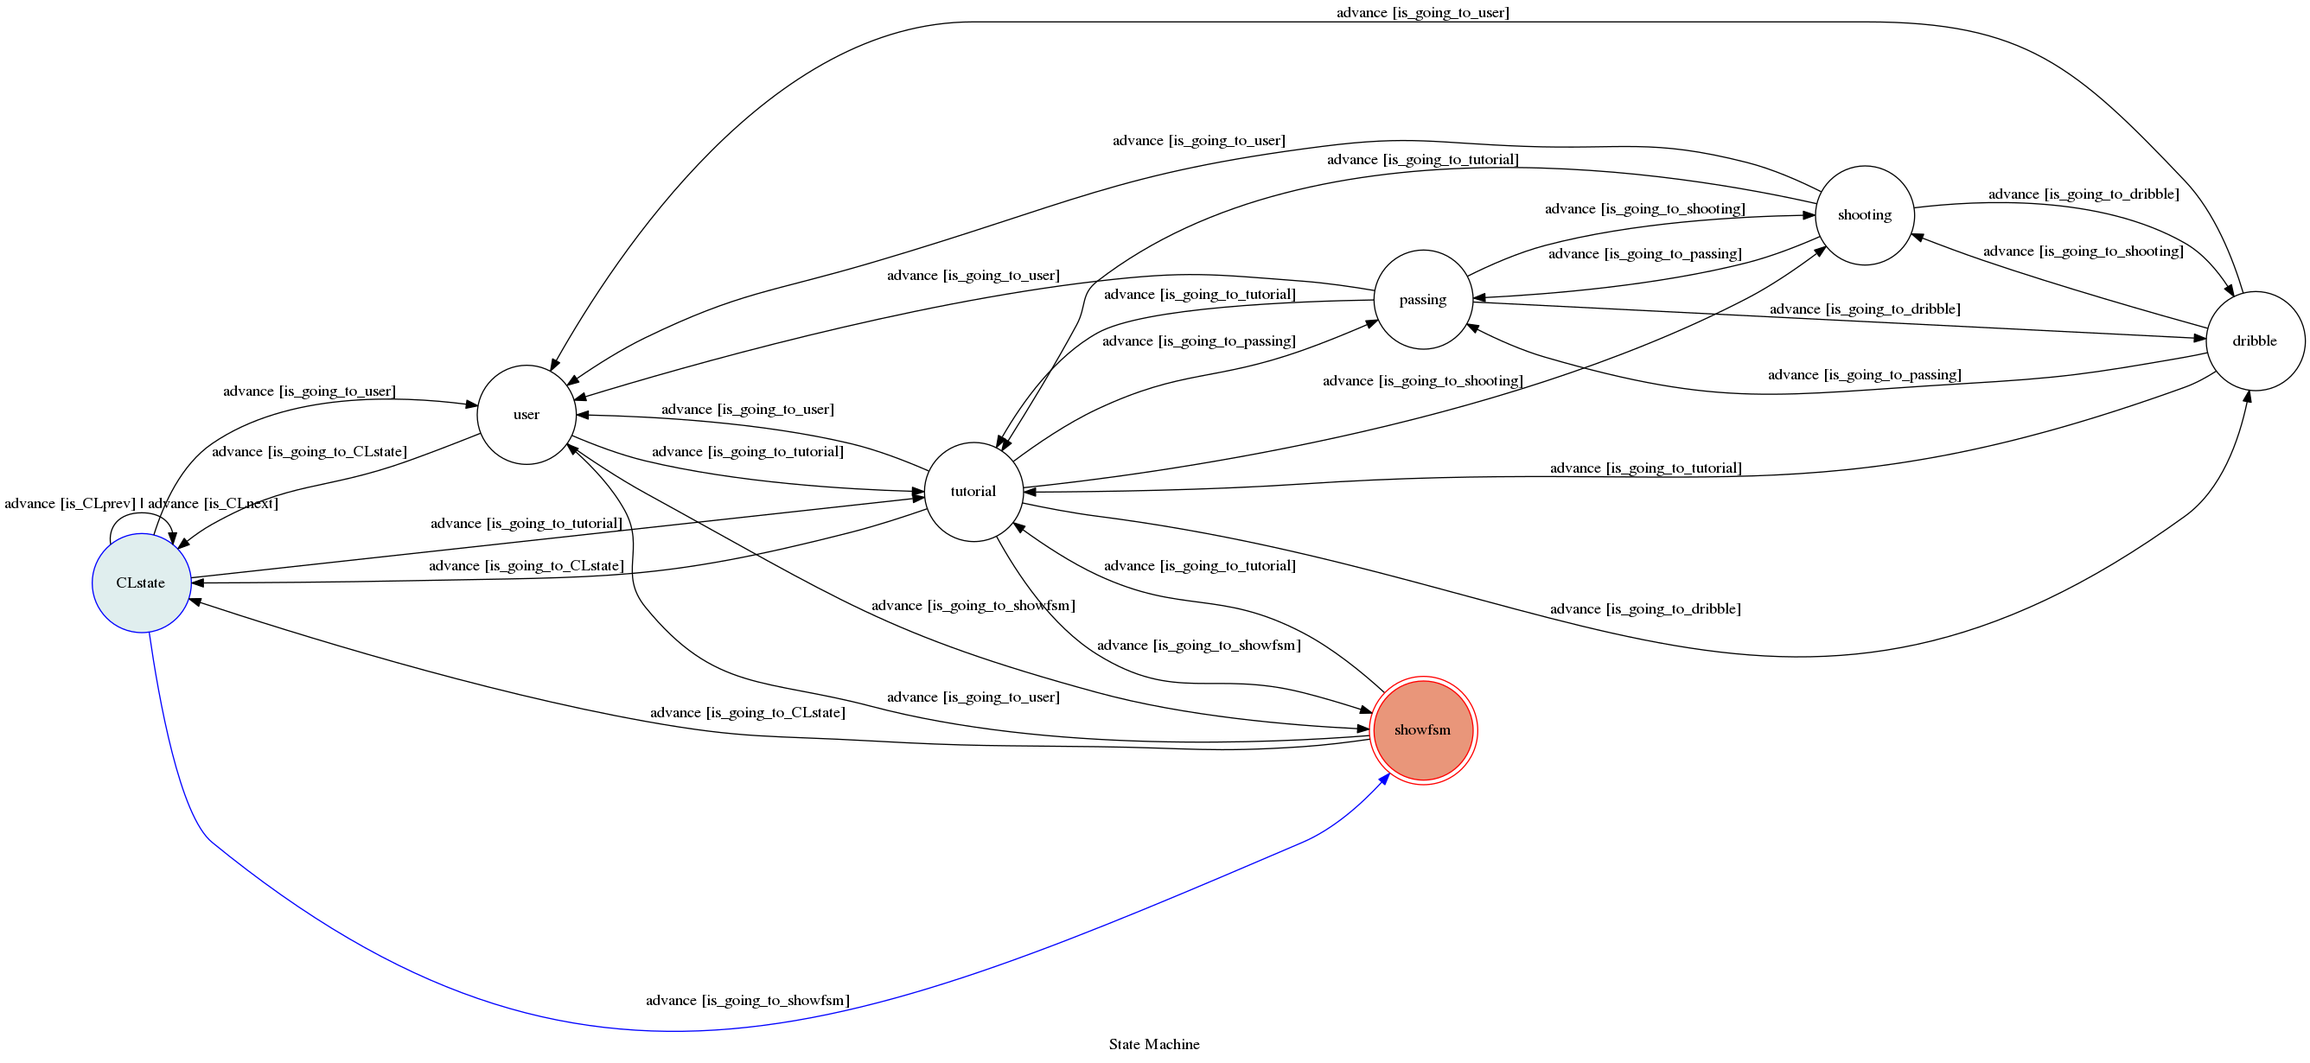
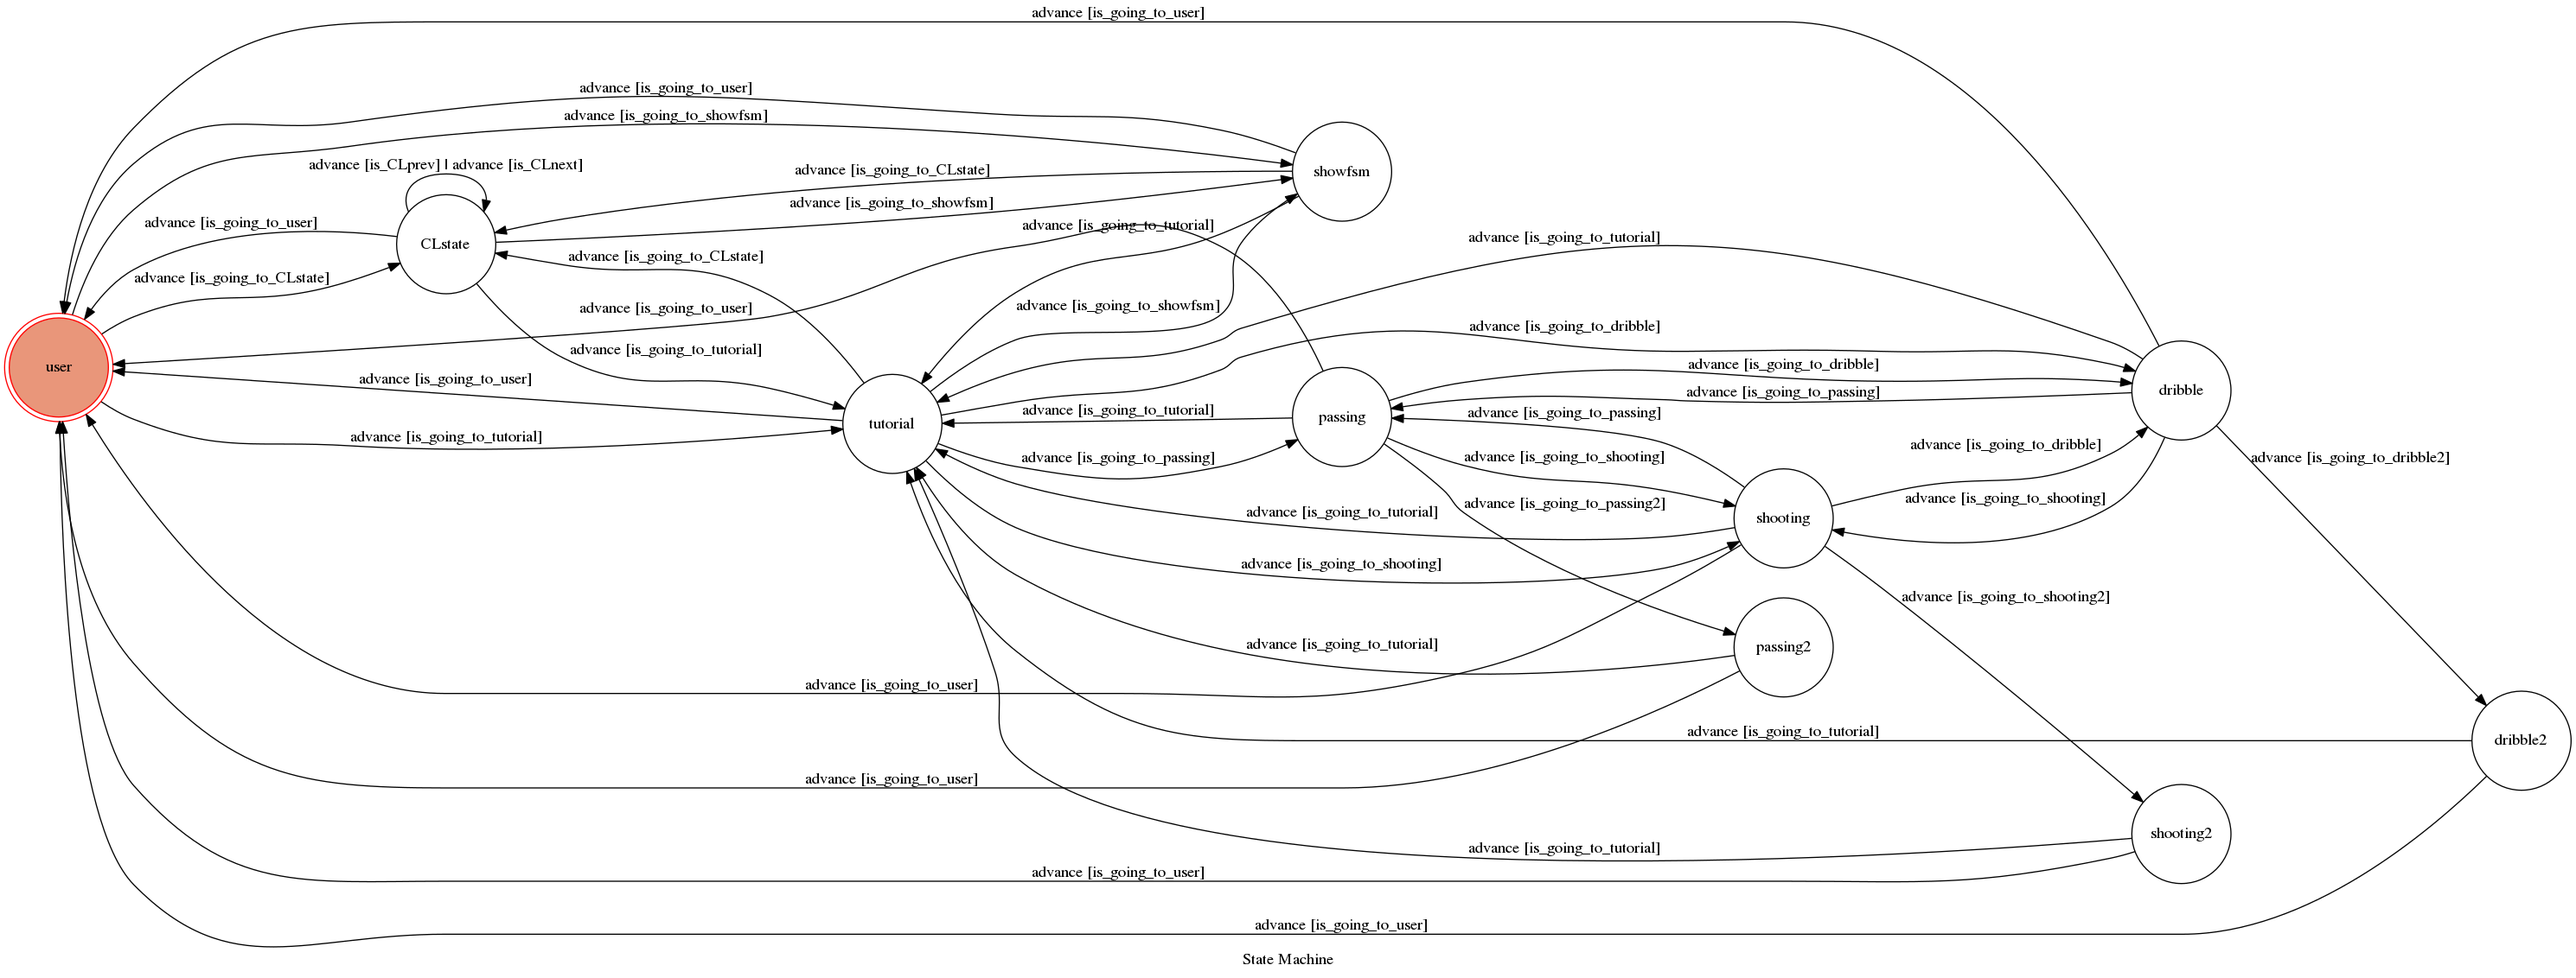
add passing2, shooting2, dribble2 state

diff --git a/fsm.py b/fsm.py
@@ -27,10 +27,6 @@ class TocMachine(GraphMachine):
         else:
             return False
 
-    #def is_going_to_CLprev(self, event):
-    #    text = event.message.text
-    #    return text.lower() == "go to CLprev"
-
     def on_enter_CLstate(self, event):
         print("I'm entering CLstate")
         driver = webdriver.Chrome(executable_path=os.environ.get("CHROMEDRIVER_PATH"), chrome_options=self.chrome_options)
@@ -39,15 +35,7 @@ class TocMachine(GraphMachine):
             send_text_message(reply_token, "Do not have next competition")
             return
         driver.get(self.url)
-        #
-        more_buttons = driver.find_elements_by_class_name("moreLink")
-        for x in range(len(more_buttons)):
-            if more_buttons[x].is_displayed():
-                driver.execute_script("arguments[0].click();", more_buttons[x])
-                time.sleep(1)
-        r = driver.page_source
-        #
-        #r = driver.execute_script("return document.documentElement.outerHTML")
+        r = driver.execute_script("return document.documentElement.outerHTML")
         driver.quit()
 
         # for debug
@@ -55,7 +43,6 @@ class TocMachine(GraphMachine):
         f.write(str(r))
         f.close()
 
-        # goal.com
         soup = BeautifulSoup(r, "html.parser")
         time = soup.find("div", {"class": "nav-switch__label"}).text
         s = time + "\n"
@@ -85,7 +72,6 @@ class TocMachine(GraphMachine):
         print(s)
         reply_token = event.reply_token
         send_text_message(reply_token, s)
-        #self.go_back()
 
     def is_CLprev(self, event):
         text = event.message.text
@@ -114,7 +100,7 @@ class TocMachine(GraphMachine):
 
     def on_enter_showfsm(self, event):
         reply_token = event.reply_token
-        send_image_url(reply_token, "https://407034cf.ngrok.io/show-fsm")
+        send_image_url(reply_token, "https://raw.githubusercontent.com/axwl03/toc-soccer/master/fsm.png")
 
     def is_going_to_showfsm(self, event):
         text = event.message.text
@@ -130,7 +116,7 @@ class TocMachine(GraphMachine):
 
     def on_enter_dribble(self, event):
         reply_token = event.reply_token
-        send_text_message(reply_token, "https://www.youtube.com/watch?v=LRW3UpQrgPQ\nhttps://www.youtube.com/watch?v=D1FINJT_QIQ\nhttps://www.youtube.com/watch?v=0Zj3hhiYF0c")
+        send_text_message(reply_token, "帶球影片:\nhttps://www.youtube.com/watch?v=LRW3UpQrgPQ\nhttps://www.youtube.com/watch?v=D1FINJT_QIQ\nhttps://www.youtube.com/watch?v=0Zj3hhiYF0c")
 
     def is_going_to_dribble(self, event):
         text = event.message.text
@@ -138,7 +124,7 @@ class TocMachine(GraphMachine):
 
     def on_enter_shooting(self, event):
         reply_token = event.reply_token
-        send_text_message(reply_token, "https://www.youtube.com/watch?v=2wHXqTqVPFo\nhttps://www.youtube.com/watch?v=fb72F-NMkhM\nhttps://www.youtube.com/watch?v=XSOx4wMnNbA")
+        send_text_message(reply_token, "射門影片:\nhttps://www.youtube.com/watch?v=2wHXqTqVPFo\nhttps://www.youtube.com/watch?v=fb72F-NMkhM\nhttps://www.youtube.com/watch?v=XSOx4wMnNbA")
 
     def is_going_to_shooting(self, event):
         text = event.message.text
@@ -146,8 +132,32 @@ class TocMachine(GraphMachine):
 
     def on_enter_passing(self, event):
         reply_token = event.reply_token
-        send_text_message(reply_token, "https://www.youtube.com/watch?v=QioehtsQMxs\nhttps://www.youtube.com/watch?v=P-WeVjGcRss\nhttps://www.youtube.com/watch?v=E3sjcv0m1z4")
+        send_text_message(reply_token, "傳球影片:\nhttps://www.youtube.com/watch?v=QioehtsQMxs\nhttps://www.youtube.com/watch?v=P-WeVjGcRss\nhttps://www.youtube.com/watch?v=E3sjcv0m1z4")
 
     def is_going_to_passing(self, event):
         text = event.message.text
         return text == "傳球"
+
+    def on_enter_dribble2(self, event):
+        reply_token = event.reply_token
+        send_text_message(reply_token, "50個腳感練習:\nhttps://www.youtube.com/watch?v=ObncYq18lMw\n\n過人方法:\nhttps://www.youtube.com/watch?v=Q0-qHJzn2gk\n\n必學練習:\nhttps://www.youtube.com/watch?v=jwIHc9rz7yo")
+
+    def is_going_to_dribble2(self, event):
+        text = event.message.text
+        return text == "看更多"
+
+    def on_enter_passing2(self, event):
+        reply_token = event.reply_token
+        send_text_message(reply_token, "15個傳球練習:\nhttps://www.youtube.com/watch?v=ttbBSoovPc4\n\n地面快速傳球:\nhttps://www.youtube.com/watch?v=vNsqMKT98Ms\n\n所有傳球技巧:\nhttps://www.youtube.com/watch?v=5TgAUdK_kIs")
+
+    def is_going_to_passing2(self, event):
+        text = event.message.text
+        return text == "看更多"
+
+    def on_enter_shooting2(self, event):
+        reply_token = event.reply_token
+        send_text_message(reply_token, "香蕉球:\nhttps://www.youtube.com/watch?v=wkcmthkXXfc\n\n下墜球:\nhttps://www.youtube.com/watch?v=0oJ8oIudXYs\n\n落葉球:\nhttps://www.youtube.com/watch?v=HRJg8--y-Q0")
+
+    def is_going_to_shooting2(self, event):
+        text = event.message.text
+        return text == "看更多"

diff --git a/app.py b/app.py
@@ -14,7 +14,7 @@ load_dotenv()
 
 
 machine = TocMachine(
-    states=["user", "CLstate", "showfsm", "tutorial", "dribble", "shooting", "passing"],
+    states=["user", "CLstate", "showfsm", "tutorial", "dribble", "shooting", "passing", "dribble2", "passing2", "shooting2"],
     transitions=[
         {
             "trigger": "advance",
@@ -36,7 +36,7 @@ machine = TocMachine(
         },
         {
             "trigger": "advance",
-            "source": ["CLstate", "showfsm", "tutorial", "dribble", "shooting", "passing"],
+            "source": ["CLstate", "showfsm", "tutorial", "dribble", "shooting", "passing", "dribble2", "passing2", "shooting2"],
             "dest": "user",
             "conditions": "is_going_to_user",
         },
@@ -48,7 +48,7 @@ machine = TocMachine(
         },
         {
             "trigger": "advance",
-            "source": ["user", "showfsm", "CLstate", "dribble", "shooting", "passing"],
+            "source": ["user", "showfsm", "CLstate", "dribble", "shooting", "passing", "dribble2", "passing2", "shooting2"],
             "dest": "tutorial",
             "conditions": "is_going_to_tutorial",
         },
@@ -69,6 +69,24 @@ machine = TocMachine(
             "source": ["tutorial", "shooting", "dribble"],
             "dest": "passing",
             "conditions": "is_going_to_passing",
+        },
+        {
+            "trigger": "advance",
+            "source": "dribble",
+            "dest": "dribble2",
+            "conditions": "is_going_to_dribble2",
+        },
+        {
+            "trigger": "advance",
+            "source": "shooting",
+            "dest": "shooting2",
+            "conditions": "is_going_to_shooting2",
+        },
+        {
+            "trigger": "advance",
+            "source": "passing",
+            "dest": "passing2",
+            "conditions": "is_going_to_passing2",
         },
         #{"trigger": "go_back", "source": ["CLprev", "state3"], "dest": "user"},
     ],
